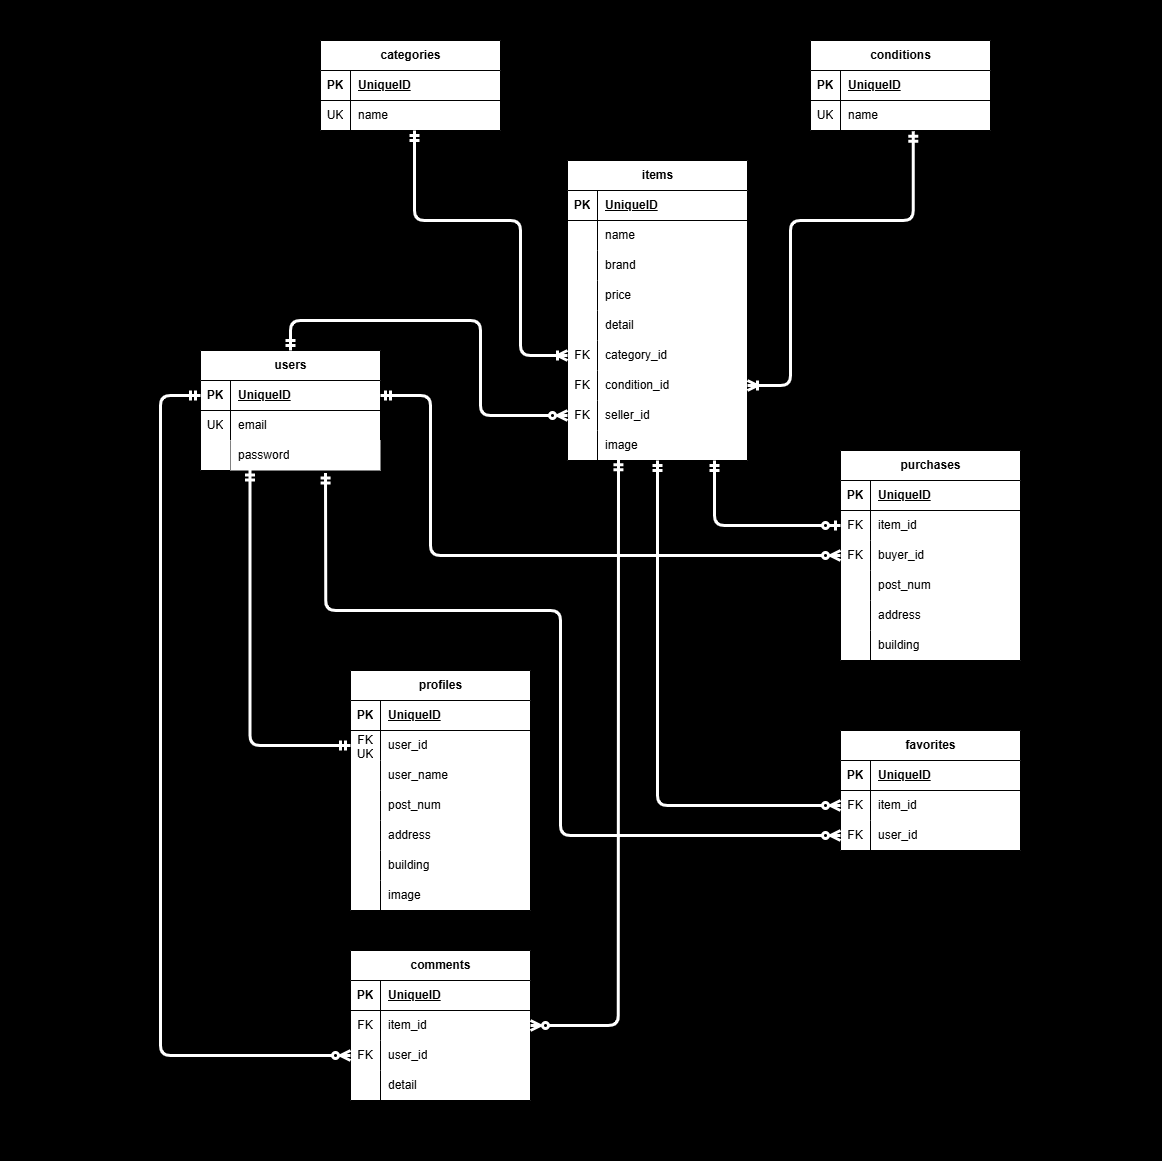
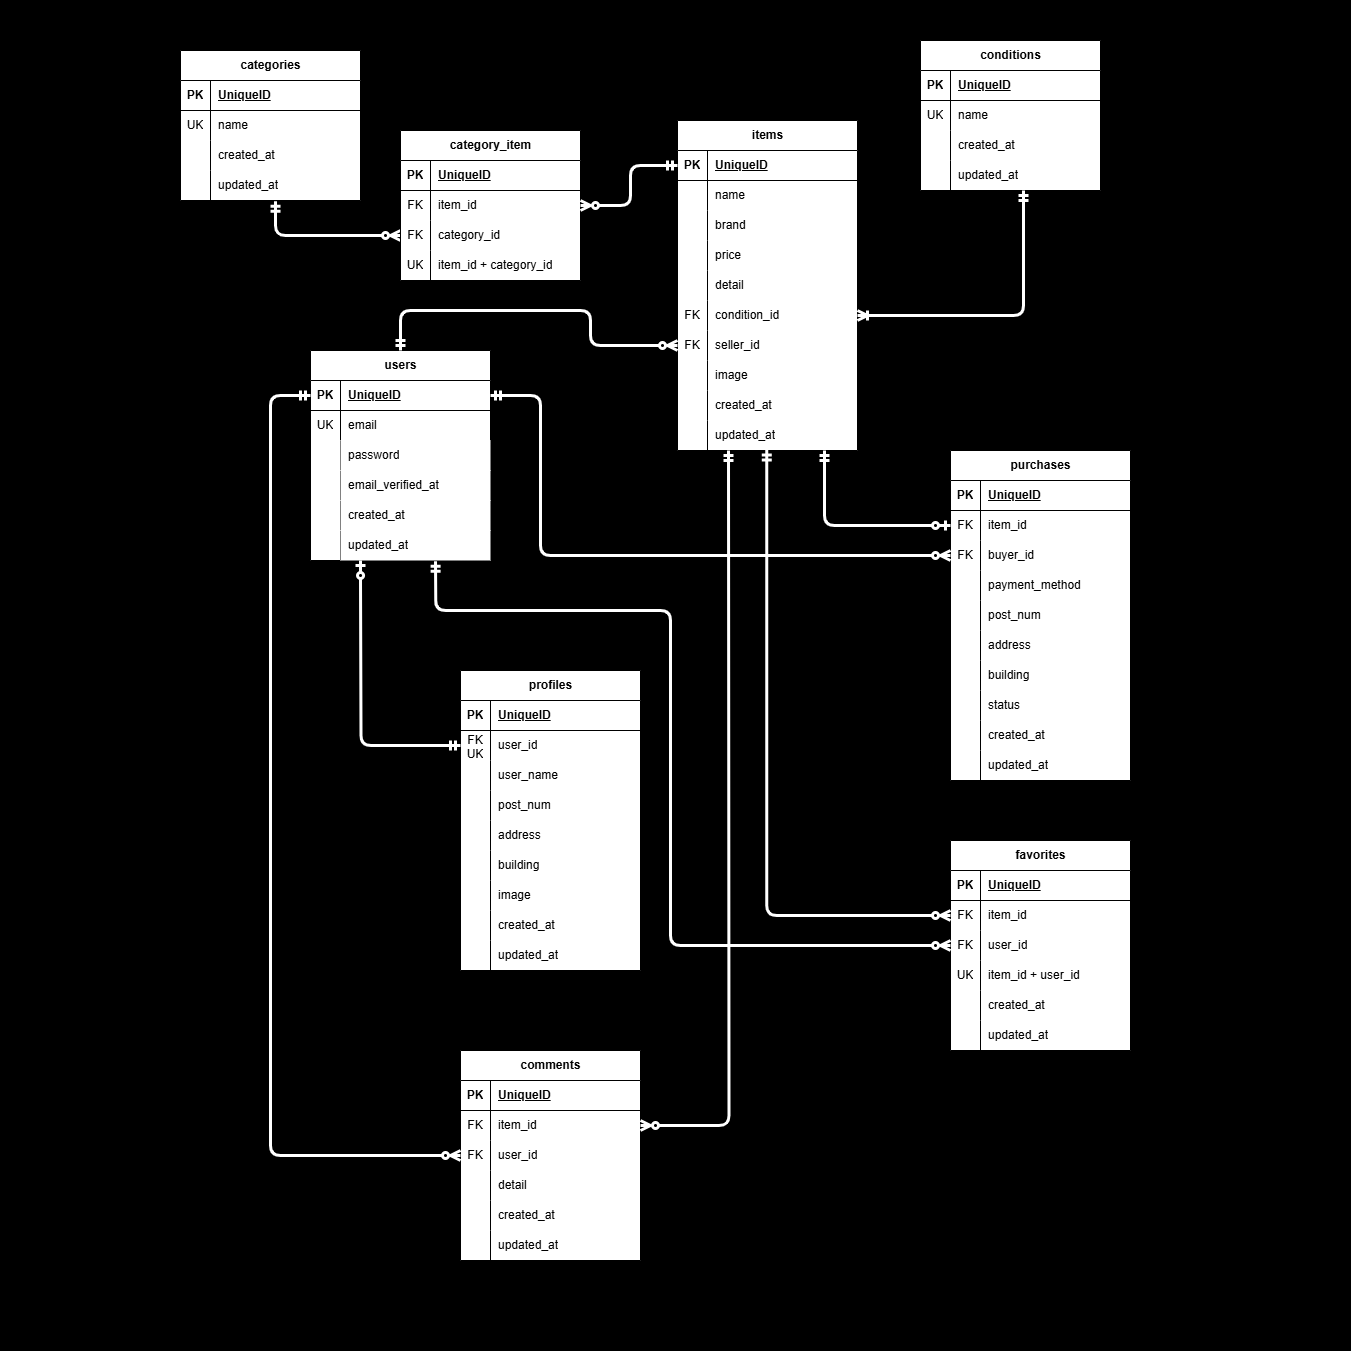
2026/1/20

diff --git a/src/tests/Feature/AuthRegisterTest.php b/src/tests/Feature/AuthRegisterTest.php
@@ -21,7 +21,9 @@ class AuthRegisterTest extends TestCase
             'password_confirmation' => 'password123',
         ]);
 
-        $response->assertSessionHasErrors(['user_name']);
+        $response->assertSessionHasErrors([
+            'user_name' => 'お名前を入力してください'
+        ]);
     }
 
     /** @test */
@@ -33,7 +35,9 @@ class AuthRegisterTest extends TestCase
             'password_confirmation' => 'password123',
         ]);
 
-        $response->assertSessionHasErrors(['email']);
+        $response->assertSessionHasErrors([
+            'email' => 'メールアドレスを入力してください'
+        ]);
     }
 
     /** @test */
@@ -44,7 +48,9 @@ class AuthRegisterTest extends TestCase
             'email' => 'test@example.com',
         ]);
 
-        $response->assertSessionHasErrors(['password']);
+        $response->assertSessionHasErrors([
+            'password' => 'パスワードを入力してください'
+        ]);
     }
 
     /** @test */
@@ -57,7 +63,9 @@ class AuthRegisterTest extends TestCase
             'password_confirmation' => '1234567',
         ]);
 
-        $response->assertSessionHasErrors(['password']);
+        $response->assertSessionHasErrors([
+            'password' => 'パスワードは8文字以上で入力してください'
+        ]);
     }
 
     /** @test */
@@ -70,7 +78,9 @@ class AuthRegisterTest extends TestCase
             'password_confirmation' => 'wrongpass',
         ]);
 
-        $response->assertSessionHasErrors(['password']);
+        $response->assertSessionHasErrors([
+            'password' => 'パスワードと一致しません'
+        ]);
     }
 
     /** @test */

diff --git a/src/tests/Feature/AuthLoginTest.php b/src/tests/Feature/AuthLoginTest.php
@@ -18,7 +18,9 @@ class AuthLoginTest extends TestCase
             'password' => 'password123',
         ]);
 
-        $response->assertSessionHasErrors(['email']);
+        $response->assertSessionHasErrors([
+            'email' => 'メールアドレスを入力してください'
+            ]);
     }
 
     /** @test */
@@ -28,7 +30,9 @@ class AuthLoginTest extends TestCase
             'email' => 'test@example.com',
         ]);
 
-        $response->assertSessionHasErrors(['password']);
+        $response->assertSessionHasErrors([
+            'password' => 'パスワードを入力してください'
+        ]);
     }
 
     /** @test */
@@ -39,7 +43,9 @@ class AuthLoginTest extends TestCase
             'password' => 'wrongpassword',
         ]);
 
-        $response->assertSessionHasErrors([ 'email' ]);
+        $response->assertSessionHasErrors([
+            'email' => 'ログイン情報が登録されていません'
+        ]);
     }
 
     /** @test */
@@ -57,5 +63,22 @@ class AuthLoginTest extends TestCase
 
         $response->assertRedirect('/?tab=mylist');
         $this->assertAuthenticatedAs($user);
+    }
+
+    /** @test */
+    public function 未認証ユーザーはログインできず認証誘導画面に遷移する()
+    {
+        $user = User::factory()->unverified()->create([
+            'password' => bcrypt('password123'),
+        ]);
+
+        $response = $this->post(route('login'), [
+            'email' => $user->email,
+            'password' => 'password123',
+        ]);
+
+        $this->assertGuest();
+
+        $response->assertRedirect(route('verification.notice'));
     }
 }

diff --git a/src/resources/views/mypage/index.blade.php b/src/resources/views/mypage/index.blade.php
@@ -8,9 +8,9 @@
     <div class="mypage-profile container--form">
         <div class="mypage-user">
             <div class="mypage-user__image-wrap">
-                <img class="mypage-user__image" src="{{ $profile->image ? asset('storage/' . $profile->image) : asset('/images/default.png') }}" alt="ユーザー画像">
+                <img class="mypage-user__image" src="{{ optional($profile)->image ? asset('storage/' . $profile->image) : asset('/images/default.png') }}" alt="ユーザー画像">
             </div>
-            <p class="mypage-user__name">{{ $profile->user_name ?? '未設定' }}</p>
+            <p class="mypage-user__name">{{ optional($profile)->user_name ?? '未設定' }}</p>
         </div>
 
         <div>

diff --git a/src/tests/Feature/ItemIndexTest.php b/src/tests/Feature/ItemIndexTest.php
@@ -55,23 +55,6 @@ class ItemIndexTest extends TestCase
     }
 
     /** @test */
-    // public function 購入されていない商品には「Sold」が表示されない()
-    // {
-    //     $seller = User::factory()->create();
-        
-    //     $item = Item::factory()->create([
-    //         'seller_id' => $seller->id,
-    //         'name' => '未購入商品',
-    //     ]);
-
-    //     $response = $this->get('/');
-
-    //     $response->assertStatus(200);
-    //     $response->assertSee('未購入商品');
-    //     $response->assertDontSee('SOLD');
-    // }
-
-    /** @test */
     public function 自分が出品した商品は表示されない()
     {
         $user = User::factory()->create();

diff --git a/src/database/migrations/2025_12_12_154200_create_category_item_table.php b/src/database/migrations/2025_12_12_154200_create_category_item_table.php
@@ -17,6 +17,7 @@ class CreateCategoryItemTable extends Migration
             $table->id();
             $table->foreignId('item_id')->constrained()->cascadeOnDelete();
             $table->foreignId('category_id')->constrained()->cascadeOnDelete();
+            $table->unique(['item_id', 'category_id']);
         });
     }
 

diff --git a/README.md b/README.md
@@ -1,4 +1,6 @@
 #coachtechフリマ(模擬案件1)
+フリマ風アプリ。商品閲覧、出品、購入、お気に入り、コメント、プロフィール管理ができます。
+会員登録後はメール認証完了後にログイン可能な仕様です。
 
 ##環境構築
 **Dockerビルド**
@@ -9,7 +11,7 @@
 **Laravel環境構築**
 1.docker-compose exec php bash
 2.composer install
-3.「.env.example」ファイルを「.env」ファイルに命名を変更。または、新しく.envファイルを作成
+3.「.env.example」ファイルをコピーして「.env」ファイルを作成
 4..envに以下の環境変数を追加
 
 DB_CONNECTION=mysql
@@ -31,11 +33,20 @@ php artisan migrate
 bash
 php artisan db:seed
 
+8.storageリンク
+bash
+php artisan storage:link
+
+9.テスト実行
+php artisan test
+
 
 ##使用技術
--PHP8.4.13
--Laravel8.83.29
--MySQL8.0.26
+-PHP 8.4.13
+-Laravel 8.83.29
+-MySQL 8.0.26
+-Laravel Fortify（認証・メール認証）
+-Stripe（決済）
 
 ##ER図
 ![ER図](/erd.png)
@@ -44,7 +55,20 @@ php artisan db:seed
 -開発環境：http:/localhost/
 -phpMyAdmin：http:/localhost:8080/
 
-##Stripe用テストカード
-・カード番号：4242 4242 4242 4242
-・有効期限：未来日
-・CVC：任意
+##テストユーザー
+id  user_name   email               password
+1   太郎        test1@example.com   password
+2   次郎        test2@example.com   password
+3   三郎        test3@example.com   password
+4   四郎        test4@example.com   password
+5   五郎        test5@example.com   password
+6   六郎        test6@example.com   password
+※上記ユーザーはSeederにより作成されています。
+
+##補足
+・会員登録後はメール認証が完了するまでログイン不可
+
+・メール認証完了後、自動ログインされプロフィール編集画面へ遷移
+
+・テストケース「11支払い方法選択機能」について
+　小計への支払い方法の反映をJavaScriptで実装しているため、Feature Testは未実施（担当コーチ了承済）
